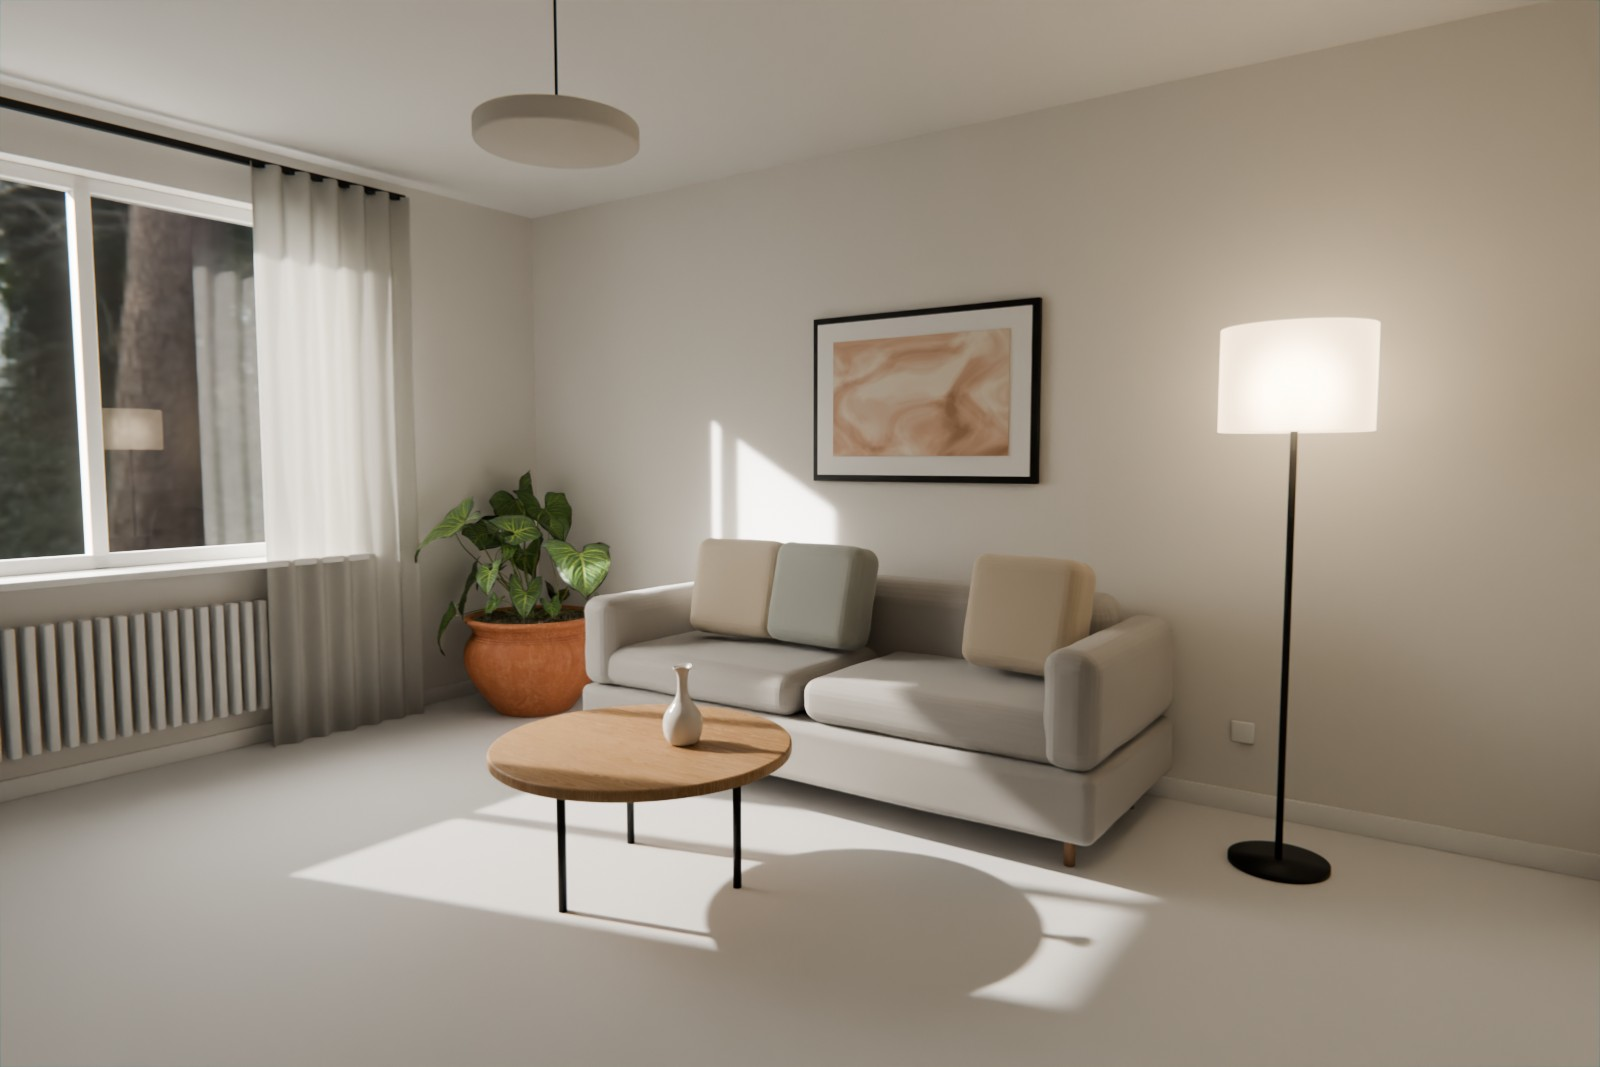
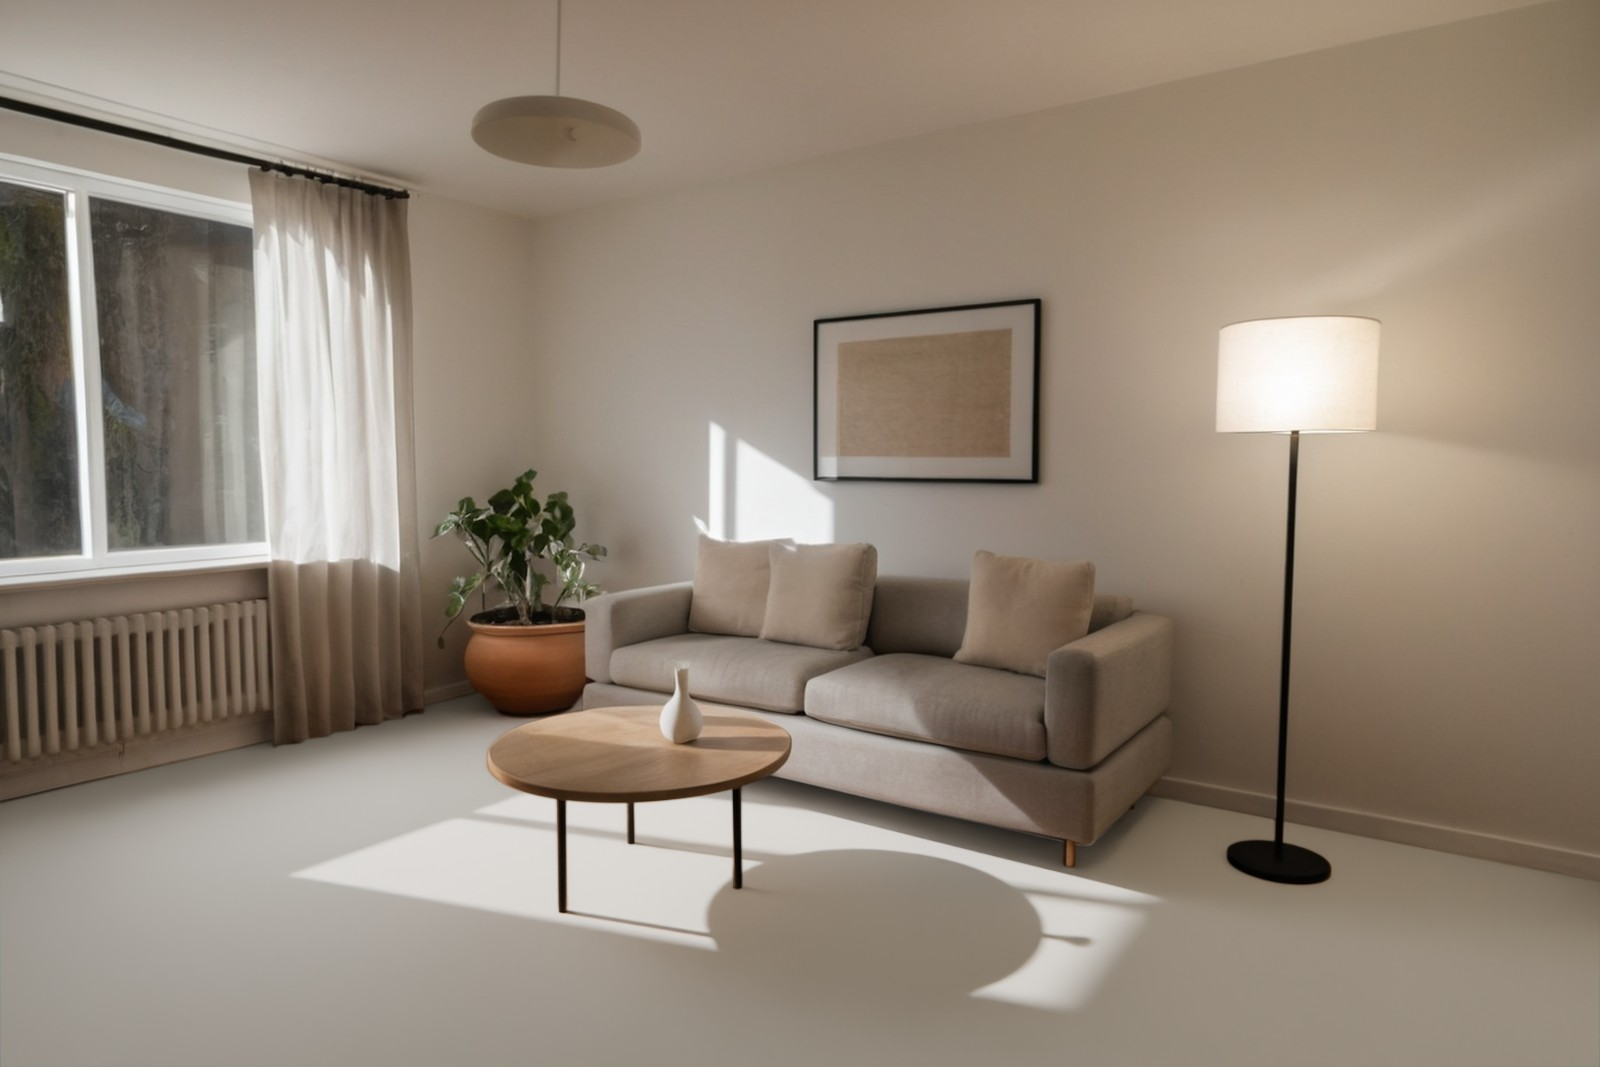
Гостиная (3D) «как фото»: нейросеть (RealVisXL + ControlNet по глубине) перерисовывает всё, кроме пола; скрипт tools/blender/ai_realism.py

diff --git a/sw.js b/sw.js
@@ -1,8 +1,8 @@
 // Работа без интернета. После первого открытия файлы сайта хранятся в телефоне.
 // При изменении сайта увеличить номер версии — телефоны скачают новые файлы.
-const VERSION = 'v53';
-const FILES = ['./', 'index.html', 'style.css?v=53', 'calc.js?v=53', 'app.js?v=53', 'photo.js?v=53', 'data/photos.json', 'data/demo/laminate_floor_02.jpg',
-  'lib/three.module.min.js', 'lib/qrcode.js?v=53', 'manifest.json', 'icons/icon-192.png', 'data/catalog.json'];
+const VERSION = 'v54';
+const FILES = ['./', 'index.html', 'style.css?v=54', 'calc.js?v=54', 'app.js?v=54', 'photo.js?v=54', 'data/photos.json', 'data/demo/laminate_floor_02.jpg',
+  'lib/three.module.min.js', 'lib/qrcode.js?v=54', 'manifest.json', 'icons/icon-192.png', 'data/catalog.json'];
 
 self.addEventListener('install', e => {
   // cache: 'reload' — мимо кэша браузера (там могут лежать файлы прошлой версии до 10 минут)

diff --git a/index.html b/index.html
@@ -8,7 +8,7 @@
   <link rel="manifest" href="manifest.json">
   <link rel="icon" href="icons/icon-192.png">
   <link rel="apple-touch-icon" href="icons/icon-192.png">
-  <link rel="stylesheet" href="style.css?v=53">
+  <link rel="stylesheet" href="style.css?v=54">
 </head>
 <body>
   <header class="top">
@@ -165,8 +165,8 @@
 
   <!-- three.js подключается по имени 'three' (так его ищут и дополнения) -->
   <script type="importmap">{ "imports": { "three": "./lib/three.module.min.js" } }</script>
-  <script src="lib/qrcode.js?v=53"></script>
-  <script src="calc.js?v=53"></script>
-  <script type="module" src="app.js?v=53"></script>
+  <script src="lib/qrcode.js?v=54"></script>
+  <script src="calc.js?v=54"></script>
+  <script type="module" src="app.js?v=54"></script>
 </body>
 </html>

diff --git a/photo.js b/photo.js
@@ -6,7 +6,7 @@
 //  3) Свет и тени берём с исходного фото: размытая яркость пола / средняя яркость пола.
 import * as THREE from 'three';
 
-const MASK_V = 'v53'; // версия масок = версия сайта (меняется вместе с ?v=), иначе телефон берёт старые из кэша
+const MASK_V = 'v54'; // версия масок = версия сайта (меняется вместе с ?v=), иначе телефон берёт старые из кэша
 const DEFAULT_TEX_W_M = 1.3; // м пола по ширине фото декора (как в 3D)
 
 let renderer, scene, camera, mat, mesh, canvasEl;

diff --git a/app.js b/app.js
@@ -1,5 +1,5 @@
 // Главный файл интерфейса. Формулы расчёта — в calc.js, фото комнат — в photo.js.
-import { initPhoto, showPhoto, setPhotoFloor, setPhotoLight, setPhotoSkirting, photoBlob } from './photo.js?v=53';
+import { initPhoto, showPhoto, setPhotoFloor, setPhotoLight, setPhotoSkirting, photoBlob } from './photo.js?v=54';
 
 const $ = s => document.querySelector(s);
 const $$ = s => [...document.querySelectorAll(s)];

diff --git a/tools/blender/ai_realism.py b/tools/blender/ai_realism.py
@@ -1,0 +1,120 @@
+"""Рендер из Blender → «как фото» нейросетью (ComfyUI + RealVisXL + ControlNet по глубине).
+
+Нейросеть перерисовывает всё, КРОМЕ пола: стены, мебель, ткани, вид за окном становятся фотографичными,
+а пол остаётся из Blender (белый, с точным светом) — сайт кладёт на него любой декор.
+ComfyUI лежит вне проекта: D:\\pol-ai\\comfyui (запускается этим скриптом сам).
+
+Запуск:  python tools/blender/ai_realism.py <папка рендера> [сила 0.25–0.6] [seed]
+Берёт room_ai.png, depth0001.png, room.png, floor_mask0001.png; пишет room_photo.png
+и room.png (исходник сохраняется как room_blender.png).
+"""
+import json, subprocess, sys, time, uuid
+from pathlib import Path
+from urllib import request
+
+import cv2
+import numpy as np
+
+COMFY = Path(r'D:\pol-ai\comfyui')
+URL = 'http://127.0.0.1:8188'
+SIZE = (1344, 896)                    # размер, на котором учили SDXL (3:2)
+POS = ('professional interior photograph of a modern scandinavian living room, light linen sofa with cushions, '
+       'round oak coffee table with a ceramic vase, potted plant, black floor lamp, framed abstract art, sheer white curtains, '
+       'window with trees outside, soft natural daylight, sunlight patches, realistic fabric texture, subtle imperfections, '
+       'shot on canon eos r5, 24mm lens, high detail, photorealistic, magazine quality')
+NEG = ('cgi, 3d render, computer graphics, cartoon, illustration, painting, plastic, oversaturated, blurry, distorted, '
+       'deformed furniture, extra objects, people, text, watermark, logo, lowres')
+
+
+def api(path, data=None, raw=False):
+    req = request.Request(URL + path, data=data, headers={} if data is None else {'Content-Type': 'application/json'})
+    with request.urlopen(req, timeout=600) as r:
+        b = r.read()
+    return b if raw else json.loads(b)
+
+
+def server():
+    try:
+        api('/system_stats'); return None
+    except Exception:
+        pass
+    py = COMFY / 'python_embeded' / 'python.exe'
+    p = subprocess.Popen([str(py), '-s', 'ComfyUI/main.py', '--listen', '127.0.0.1', '--port', '8188', '--disable-auto-launch'],
+                         cwd=COMFY, stdout=subprocess.DEVNULL, stderr=subprocess.DEVNULL)
+    for _ in range(180):
+        time.sleep(2)
+        try:
+            api('/system_stats'); return p
+        except Exception:
+            pass
+    raise RuntimeError('ComfyUI не запустился')
+
+
+def upload(path, name):
+    b = '----pol' + uuid.uuid4().hex
+    body = (f'--{b}\r\nContent-Disposition: form-data; name="image"; filename="{name}"\r\nContent-Type: image/png\r\n\r\n').encode() \
+        + Path(path).read_bytes() + f'\r\n--{b}\r\nContent-Disposition: form-data; name="overwrite"\r\n\r\ntrue\r\n--{b}--\r\n'.encode()
+    req = request.Request(URL + '/upload/image', data=body, headers={'Content-Type': f'multipart/form-data; boundary={b}'})
+    return json.loads(request.urlopen(req).read())['name']
+
+
+def workflow(img, depth, denoise, seed):
+    return {
+        '1': {'class_type': 'CheckpointLoaderSimple', 'inputs': {'ckpt_name': 'RealVisXL_V5.0_fp16.safetensors'}},
+        '2': {'class_type': 'CLIPTextEncode', 'inputs': {'text': POS, 'clip': ['1', 1]}},
+        '3': {'class_type': 'CLIPTextEncode', 'inputs': {'text': NEG, 'clip': ['1', 1]}},
+        '4': {'class_type': 'ControlNetLoader', 'inputs': {'control_net_name': 'controlnet-union-sdxl-promax.safetensors'}},
+        '5': {'class_type': 'SetUnionControlNetType', 'inputs': {'control_net': ['4', 0], 'type': 'depth'}},
+        '6': {'class_type': 'LoadImage', 'inputs': {'image': depth}},
+        '7': {'class_type': 'ControlNetApplyAdvanced', 'inputs': {
+            'positive': ['2', 0], 'negative': ['3', 0], 'control_net': ['5', 0], 'image': ['6', 0], 'vae': ['1', 2],
+            'strength': 0.75, 'start_percent': 0.0, 'end_percent': 0.85}},
+        '8': {'class_type': 'LoadImage', 'inputs': {'image': img}},
+        '9': {'class_type': 'VAEEncode', 'inputs': {'pixels': ['8', 0], 'vae': ['1', 2]}},
+        '10': {'class_type': 'KSampler', 'inputs': {
+            'model': ['1', 0], 'positive': ['7', 0], 'negative': ['7', 1], 'latent_image': ['9', 0],
+            'seed': seed, 'steps': 32, 'cfg': 5.0, 'sampler_name': 'dpmpp_2m', 'scheduler': 'karras', 'denoise': denoise}},
+        '11': {'class_type': 'VAEDecode', 'inputs': {'samples': ['10', 0], 'vae': ['1', 2]}},
+        '12': {'class_type': 'SaveImage', 'inputs': {'images': ['11', 0], 'filename_prefix': 'pol'}},
+    }
+
+
+def main():
+    src = Path(sys.argv[1]); denoise = float(sys.argv[2]) if len(sys.argv) > 2 else 0.4
+    seed = int(sys.argv[3]) if len(sys.argv) > 3 else 7
+    tmp = src / '_ai'; tmp.mkdir(exist_ok=True)
+    ai_in = cv2.resize(cv2.imread(str(src / 'room_ai.png')), SIZE, interpolation=cv2.INTER_AREA)
+    d = cv2.imread(str(src / 'depth0001.png'), 0).astype(np.float32)
+    lo, hi = np.percentile(d, 1), np.percentile(d, 99.5)                # растянуть контраст глубины
+    d = np.clip((d - lo) / max(hi - lo, 1) * 255, 0, 255).astype(np.uint8)
+    cv2.imwrite(str(tmp / 'in.png'), ai_in); cv2.imwrite(str(tmp / 'depth.png'), cv2.resize(d, SIZE))
+    proc = server()
+    try:
+        a, b = upload(tmp / 'in.png', 'pol_in.png'), upload(tmp / 'depth.png', 'pol_depth.png')
+        pid = api('/prompt', json.dumps({'prompt': workflow(a, b, denoise, seed)}).encode())['prompt_id']
+        while True:
+            time.sleep(2)
+            h = api(f'/history/{pid}')
+            if pid in h and h[pid].get('outputs'):
+                im = h[pid]['outputs']['12']['images'][0]; break
+            if pid in h and h[pid].get('status', {}).get('status_str') == 'error':
+                raise RuntimeError(json.dumps(h[pid]['status'])[:800])
+        png = api(f"/view?filename={im['filename']}&subfolder={im['subfolder']}&type=output", raw=True)
+    finally:
+        if proc: proc.terminate()
+    out = cv2.imdecode(np.frombuffer(png, np.uint8), 1)
+    base = cv2.imread(str(src / 'room.png')); H, W = base.shape[:2]
+    out = cv2.resize(out, (W, H), interpolation=cv2.INTER_LANCZOS4)
+    cv2.imwrite(str(src / 'room_photo.png'), out)
+    # итог: нейросеть — везде, кроме пола; пол — из Blender (по нему сайт считает свет)
+    m = cv2.imread(str(src / 'floor_mask0001.png'), 0).astype(np.float32) / 255
+    m = cv2.GaussianBlur(m, (0, 0), 1.2)[..., None]
+    if not (src / 'room_blender.png').exists():
+        cv2.imwrite(str(src / 'room_blender.png'), base)
+    base = cv2.imread(str(src / 'room_blender.png')).astype(np.float32)
+    cv2.imwrite(str(src / 'room.png'), (out.astype(np.float32) * (1 - m) + base * m).astype(np.uint8))
+    print('ГОТОВО', src / 'room.png')
+
+
+if __name__ == '__main__':
+    main()
